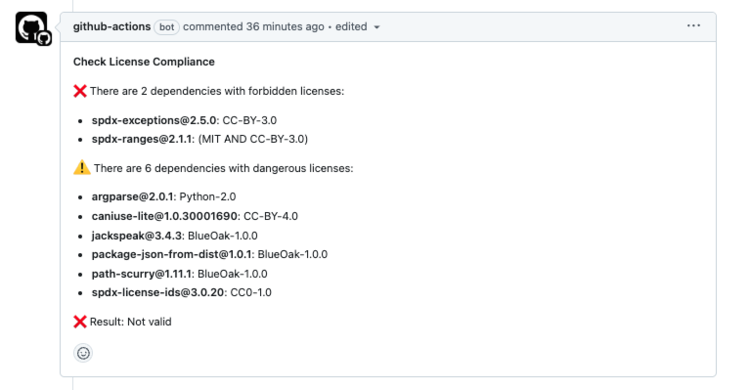
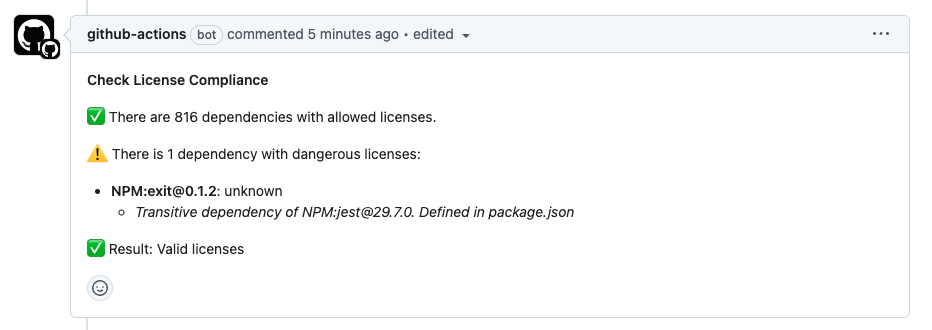
feat: Support multiple systems when checking dependencies licenses

diff --git a/README.md b/README.md
@@ -8,7 +8,7 @@ In detail, it includes:
 
 * A __CLI for scaffolding open source projects__ with the standard files, including workflows for license compliance and integrity checks, community guidelines, and more. Read the [CLI section](#nodejs-cli) below for more information.
 * A __Github workflow__ automating the process of initializing a project with the standard files, by simply creating a new repository from this template and running the workflow. Read the [Repository template section](#repository-template) below for more information.
-* A __Github action__ enabling to check the scaffolding of open source projects, ensuring that some relevant files are not removed after project creation. Read the [Github action section](#github-action-for-checking-the-opensource-resources) below for more information.
+* A __Github action__ enabling to check the scaffolding of open source projects, ensuring that some relevant files are not removed after creating the project. Read the [Github action section](#github-action-for-checking-the-opensource-resources) below for more information.
 
 ## Table of Contents
 
@@ -141,7 +141,7 @@ Once you initialize an open source project using this scaffold, it will include 
     * Includes a check to ensure that the contributor has read the Code of Conduct.
 * __A Github Workflow with open source checks__: It is executed on every pull request and pushes to the main branch, and checks the following:
     * [__License Integrity check__](#license-integrity-check): Checks that all files in the project are rightly licensed. That is, it checks that all files have the expected license header according to the license chosen for the project and a given configuration.
-    * [__License compliance check__](#license-compliance-check): Checks that the dependencies of the project are licensed under a license that is compatible with a given configuration. The configuration by default is the one defined in the [Practical Guide to Open Source Software at Telefónica](#preface), but can be customized.
+    * [__License compliance check__](#license-compliance-check): Checks that the dependencies of the project are licensed under a license that is compatible with a given configuration. The configuration by default is the one defined in the [Practical Guide to Open Source Software at Telefónica](#preface) for the chosen project's license, but can be customized.
     * [__Open source resources check__](#opensource-resources-check): Checks that the project still contains the files that have been created by this scaffold, ensuring that the project always remains compliant with the open source guidelines.
 * [__A Github Workflow for automatic CLA signing__](#automatic-contributing-license-agreement): It automates the process of signing the CLA, by creating a comment in the pull request asking contributors who have not signed CLA to sign. It fails the pull request status check with a failure if the contributor has not signed the CLA.
 * __Changelog file__: A changelog file to keep track of the changes in the project. It is based on the [Keep a Changelog](https://keepachangelog.com/en/1.0.0/) format.
@@ -192,10 +192,7 @@ We want to ensure that the software we build is in compliance with our [licensin
 
 This means that we are not incorporating third party software in the project under a license that is not compatible with the license selected for the overall project, or that is not compatible with the company's open source licensing guidelines.
 
-For such purpose, this scaffold includes a job in the "Open Source Checks" workflow. This job uses the [Telefonica/check-license-compliance github action](https://github.com/Telefonica/check-license-compliance). The configuration of the action is defined in the `.github/check-license-compliance.config.yml` file. It is filled automatically with the [inputs](#inputs) provided when creating the scaffold, but it can be also customized manually to fit better your project's needs.
-
-> [!WARNING]
-> The check is language dependent, and, for the moment, it only supports Node.js dependencies. You should comment it out if your project is not a Node.js project, and read the suggestions below to implement you or own check depending on the language of your project.
+For such purpose, this scaffold includes a job in the "Open Source Checks" workflow. This job uses the [Telefonica/check-license-compliance github action](https://github.com/Telefonica/check-license-compliance). The configuration of the action is defined in the `.github/check-license-compliance.config.yml` file. It is filled automatically based on the license provided when creating the scaffold, but it can be also customized manually to fit better your project's needs.
 
 Please review the [licensing guidance](https://telefonicacorp.sharepoint.com/:w:/s/PatentOffice.TMEHI/EV1Yvq2kUhhCgy5FG-lryaYBWLwIRewSMZXsbZJeQ5uhlg?e=Mdrdwh&wdLOR=cCBDCEA92-4CAC-CF4A-BF60-44FC3F909578) when configuring the license compliance check. In case of doubt, please contact the Intellectual Property team, to the email address indicated in such document.
 
@@ -203,53 +200,6 @@ Please review the [licensing guidance](https://telefonicacorp.sharepoint.com/:w:
 
 > [!TIP]
 > In repositories with [GitHub Advanced Security enabled](https://docs.github.com/en/get-started/learning-about-github/about-github-advanced-security), you may use the [Github's dependency-review-action](https://github.com/actions/dependency-review-action) instead of the [Telefonica/check-license-compliance github action](https://github.com/Telefonica/check-license-compliance). In such case, modify the `.github/workflows/open-source-checks.yml` to change the action used in the `check-license-compliance` job.
-
-### Checking other languages than Node.js
-
-As mentioned above, the [Telefonica/check-license-compliance github action](https://github.com/Telefonica/check-license-compliance) for the moment only supports Node.js dependencies. If your project is not a Node.js project, you should comment it out and implement your own check depending on the language of your project.
-
-Here you have some suggestions about how to implement the check for some common languages until they are supported by our Github action:
-
-<details>
-  <summary>See code snippets</summary>
-
-### Java
-
-Run this to get the dependency license list.
-
-```bash
-mvn org.codehaus.mojo:license-maven-plugin:aggregate-third-party-report
-```
-
-When this is done, the result will be in ./target/site/aggregate-third-party-report.html.
-
-### Python
-
-```bash
-pip3 install --user pylic
-cd path/to/repo
-touch pyproject.toml
-pylic check
-```
-
-### Go
-
-```bash
-go install github.com/google/go-licenses@latest
-go-licenses check . --allowed_licenses=MIT,ISC,BSD-3-Clause,Apache-2.0,BSD-2-Clause,0BSD,CC-BY-4.0
-```
-
-### PHP
-
-```bash
-composer require dominikb/composer-license-checker
-composer exec composer-license-checker -- check
-```
-
-> [!INFO]
-> These snippets are from the [eBay's open source program docs](https://opensource.ebay.com/contributing/approval/tooling/). Check the original source for more information.
-
-</details>
 
 ## Next steps
 
@@ -259,8 +209,6 @@ Once you have used the scaffolding tools to create the resources, you should fol
 2. __Remember to configure the repository rules__: Remember to configure the branch protection rules to require the different checks in PRs, including the CLA signing check and the open source resources checks. Read the [Configuring the repository section](#configuring-the-repository) for more information.
 3. __Configure the License integrity check__: The scaffold creates a basic configuration for the license integrity check, but you should review it and adapt it to your project. Read the [License Integrity check](#license-integrity-check) section for more information.
 4. __Configure the License compliance check__: The repository creates a basic configuration for the license compliance check, but you should review it and adapt it to your project. Read the [License Compliance check](#license-compliance-check) section for more information.
-    * Remember to modify the `.github/workflows/open-source-checks.yml` file to install the dependencies needed to run the check for your project's language in the `check-license-compliance` job. _(You'll find a TODO comment in the file indicating where to do it.)_
-    * If your project is not a Node.js project, you should comment out the `check-license-compliance` job in the `.github/workflows/open-source-checks.yml` file and implement your own check depending on the language of your project.
 5. __Finish the README file__: The scaffold creates for you a `README.md` file with some basic information about the project and license, but you should fill it with the information about the project, how to install it, how to use it, etc. But remember to __always keep the "Contributing" and "License" sections__.
 6. __Finish the CONTRIBUTING file__: You should do the same with the `CONTRIBUTING.md` file. You should __fill the "Getting Started" section__ with the steps that a contributor should follow to start contributing to the project, and __add as many sections as needed to explain the contribution process__. But you should __always keep the rest of sections__ about the licensing of new files, code of conduct and the CLA.
 

diff --git a/CHANGELOG.md b/CHANGELOG.md
@@ -11,16 +11,21 @@ and this project adheres to [Semantic Versioning](https://semver.org/spec/v2.0.0
 #### Deprecated
 #### Removed
 
-## [1.1.0] - 2025-02-04
+## [1.1.0] - 2025-02-13
 
 ### Added
 
+* feat: Upgrade `check-license-compliance` to v3. Now it supports checking licenses from NPM, Maven, Python and Go dependencies. Update the action configuration accordingly
 * feat: Generate different `check-license-compliance` configurations based on the license type
+* feat: Add `check-license-compliance` options commented out to configuration file, so it is easier to understand what can be configured
 
 ### Changed
 
-* feat: Bump `check-license-compliance` to v2. Update the action configuration accordingly
 * chore: Bump `check-spdx-headers` action to version v1
+
+### Fixed
+
+* fix: Fix typo in "0BSD" license
 
 ## [1.0.1] - 2025-01-21
 
